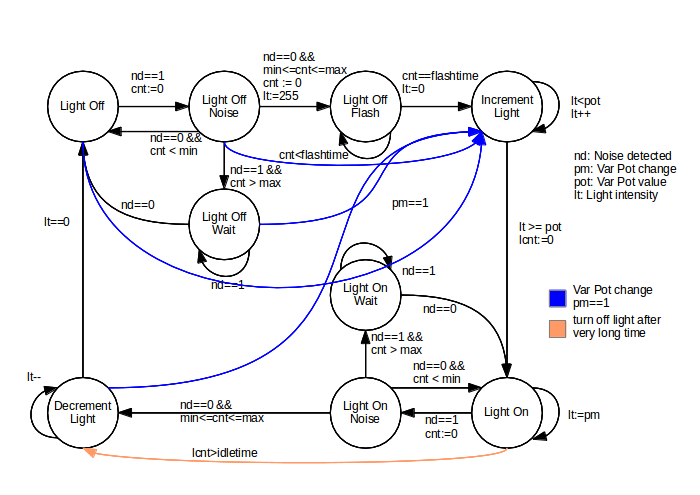
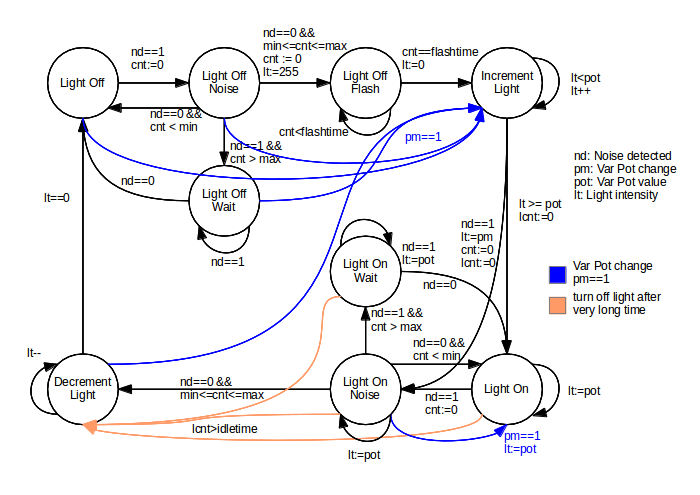
update on statemachine

diff --git a/v2/test/console.c b/v2/test/console.c
@@ -185,6 +185,7 @@ void state_machine(void)
 	state = STATE_LIGHT_OFF_NOISE;
       }
       break;
+      
     case STATE_LIGHT_OFF_NOISE:
       if ( pm != 0 )
       {
@@ -204,6 +205,7 @@ void state_machine(void)
 	state = STATE_LIGHT_OFF_WAIT;	
       }
       break;
+      
     case STATE_LIGHT_OFF_WAIT:
       if ( pm != 0 )
       {
@@ -214,6 +216,7 @@ void state_machine(void)
 	state = STATE_LIGHT_OFF;
       }
       break;
+      
     case STATE_LIGHT_OFF_FLASH:
       if ( pm != 0 )
       {
@@ -225,6 +228,7 @@ void state_machine(void)
 	state = STATE_INCREMENT_LIGHT;	
       }
       break;
+      
     case STATE_INCREMENT_LIGHT:
       if ( nd != 0 )
       {
@@ -240,6 +244,7 @@ void state_machine(void)
       }
       lt++;
       break;
+      
     case STATE_LIGHT_ON:
       if ( pm != 0 )
       {
@@ -260,6 +265,7 @@ void state_machine(void)
 	lt = pot;
       }
       break;
+      
     case STATE_LIGHT_ON_NOISE:
       if ( pm == 1 )
       {
@@ -280,10 +286,35 @@ void state_machine(void)
       }
       lt = pot;
       break;
+      
     case STATE_LIGHT_ON_WAIT:
+      if ( pm != 0 )
+      {
+	/* stay here and copy pot value (see below), wait until noise goes away */
+      }
+      /* else */ /* no else in this case, always leave this state if noise is away */
+      if ( nd == 0 )
+      {
+	state = STATE_LIGHT_ON;
+      }
+      lt = pot;
       break;
+      
     case STATE_DECREMENT_LIGHT:
+      if ( pm != 0 )
+      {
+	state = STATE_INCREMENT_LIGHT;
+      }
+      else if ( lt == 0 )
+      {
+	state = STATE_LIGHT_OFF;
+      }
+      else
+      {
+	lt--;
+      }
       break;
+      
     default:
       state = STATE_LIGHT_OFF;
       break;
